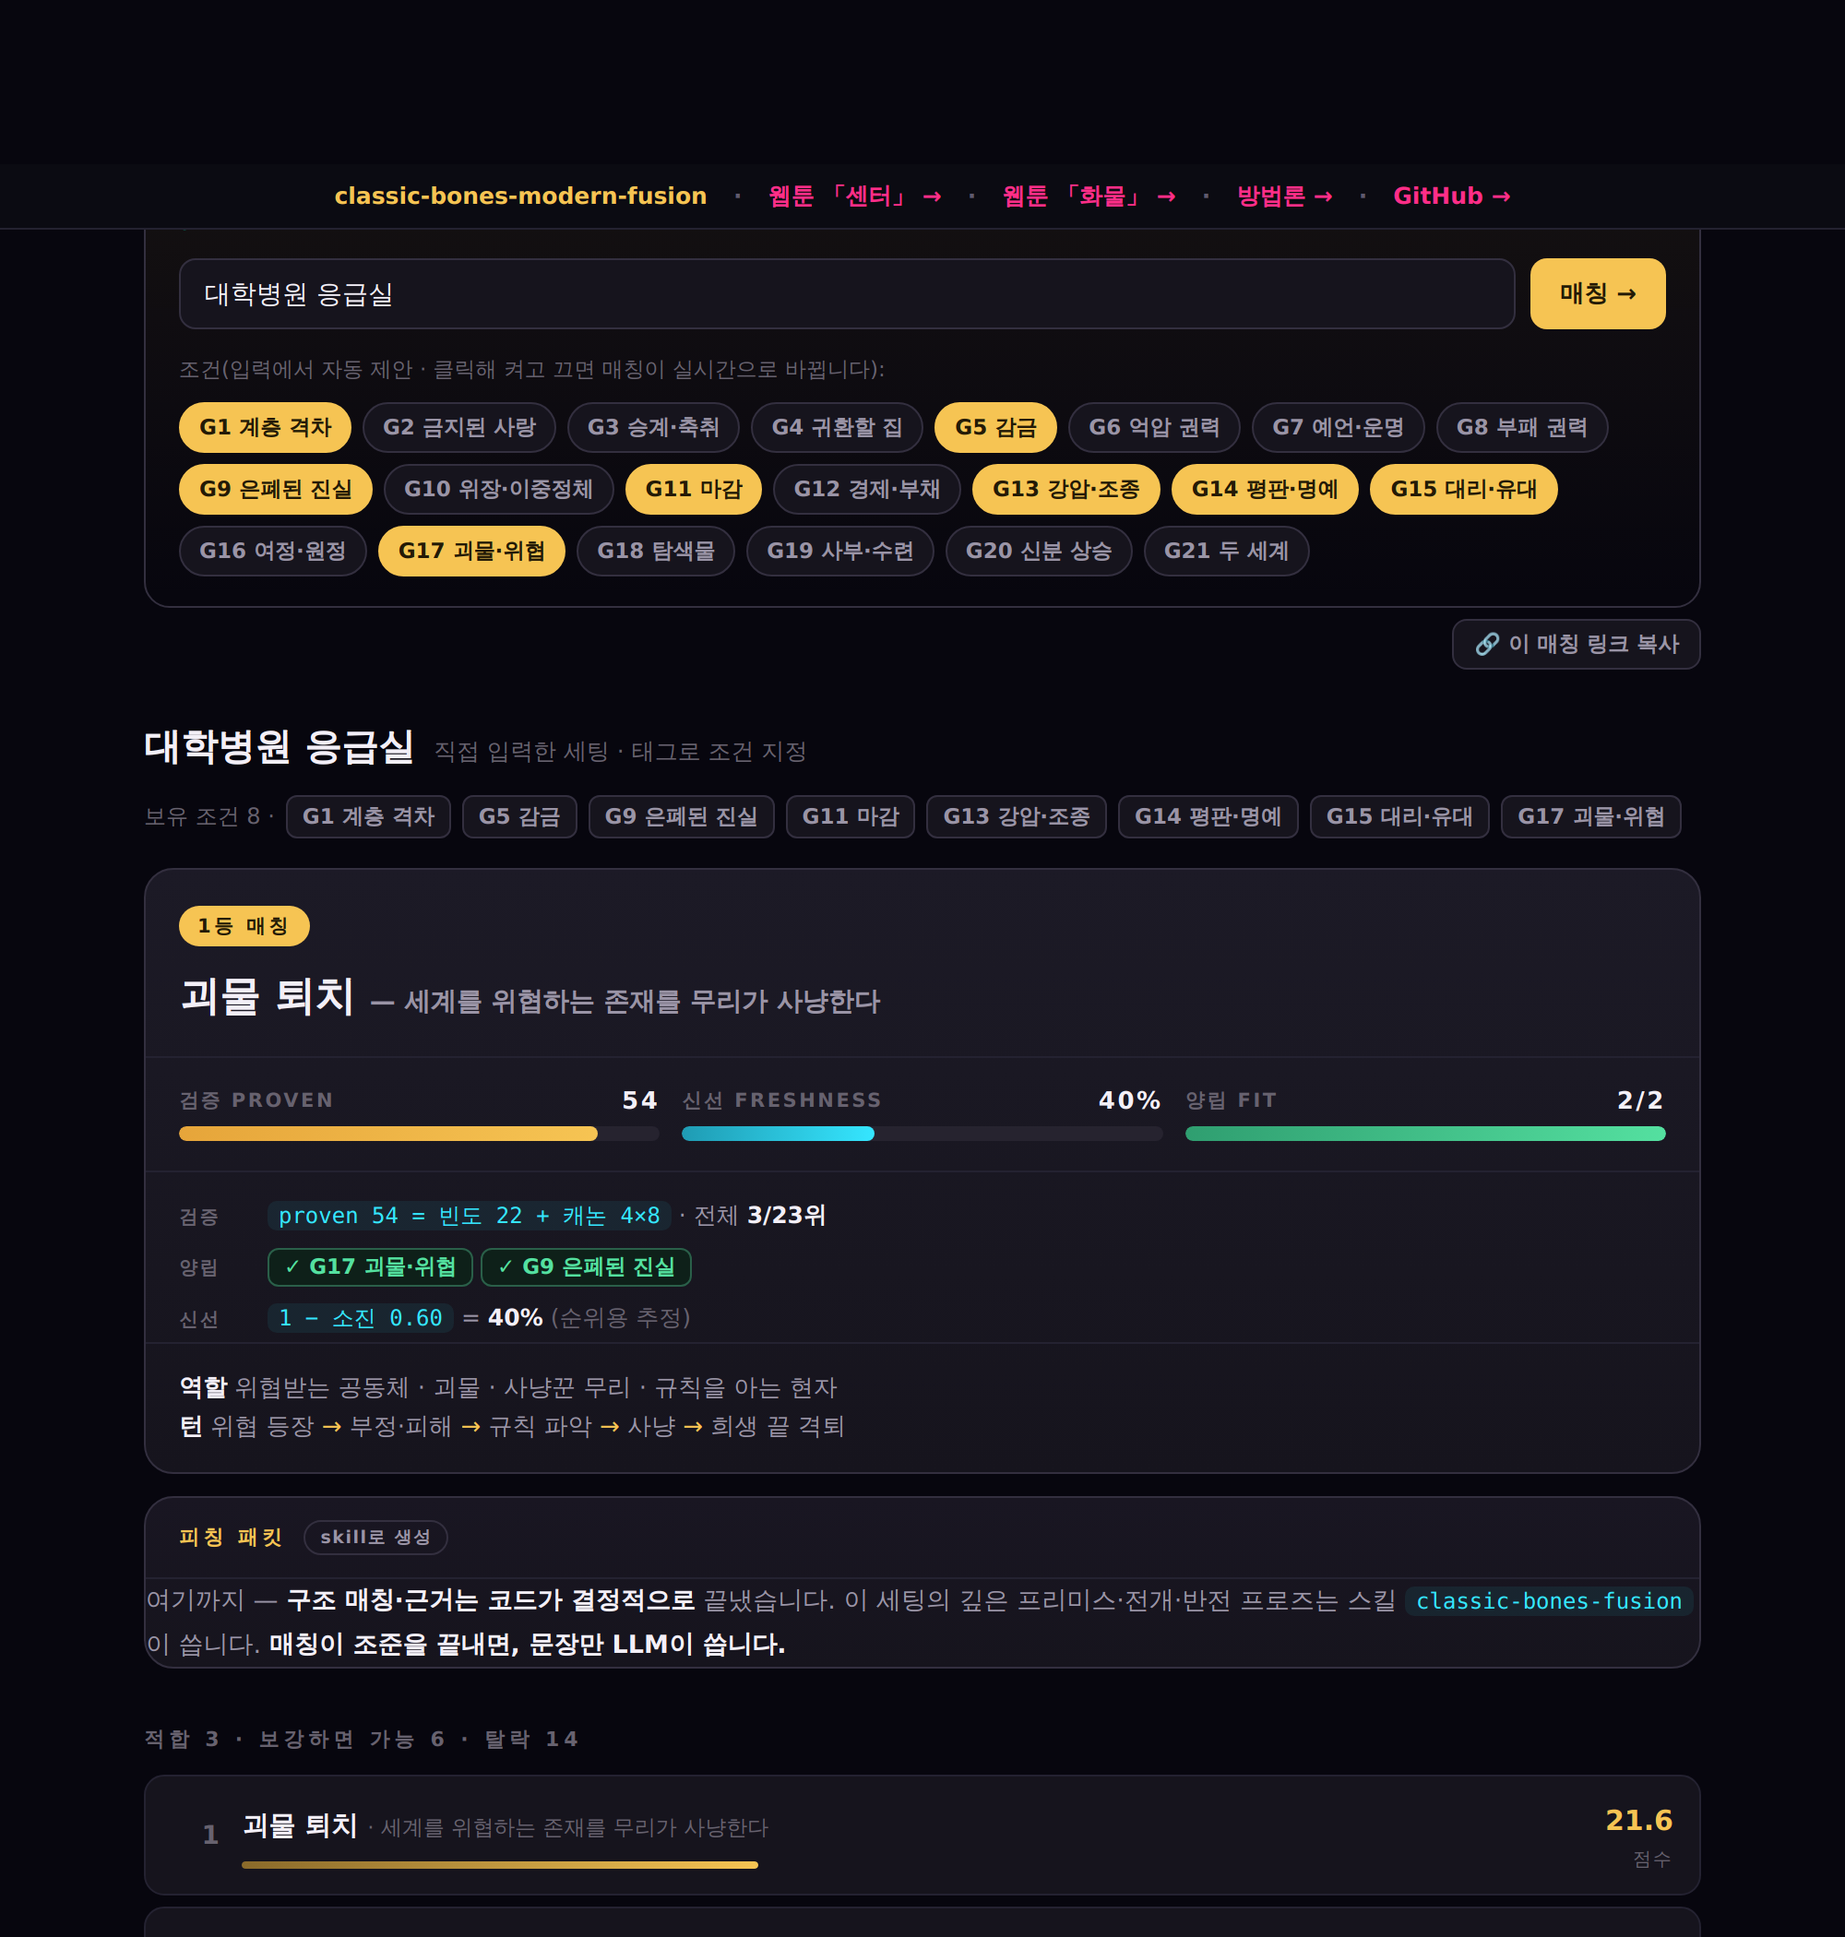
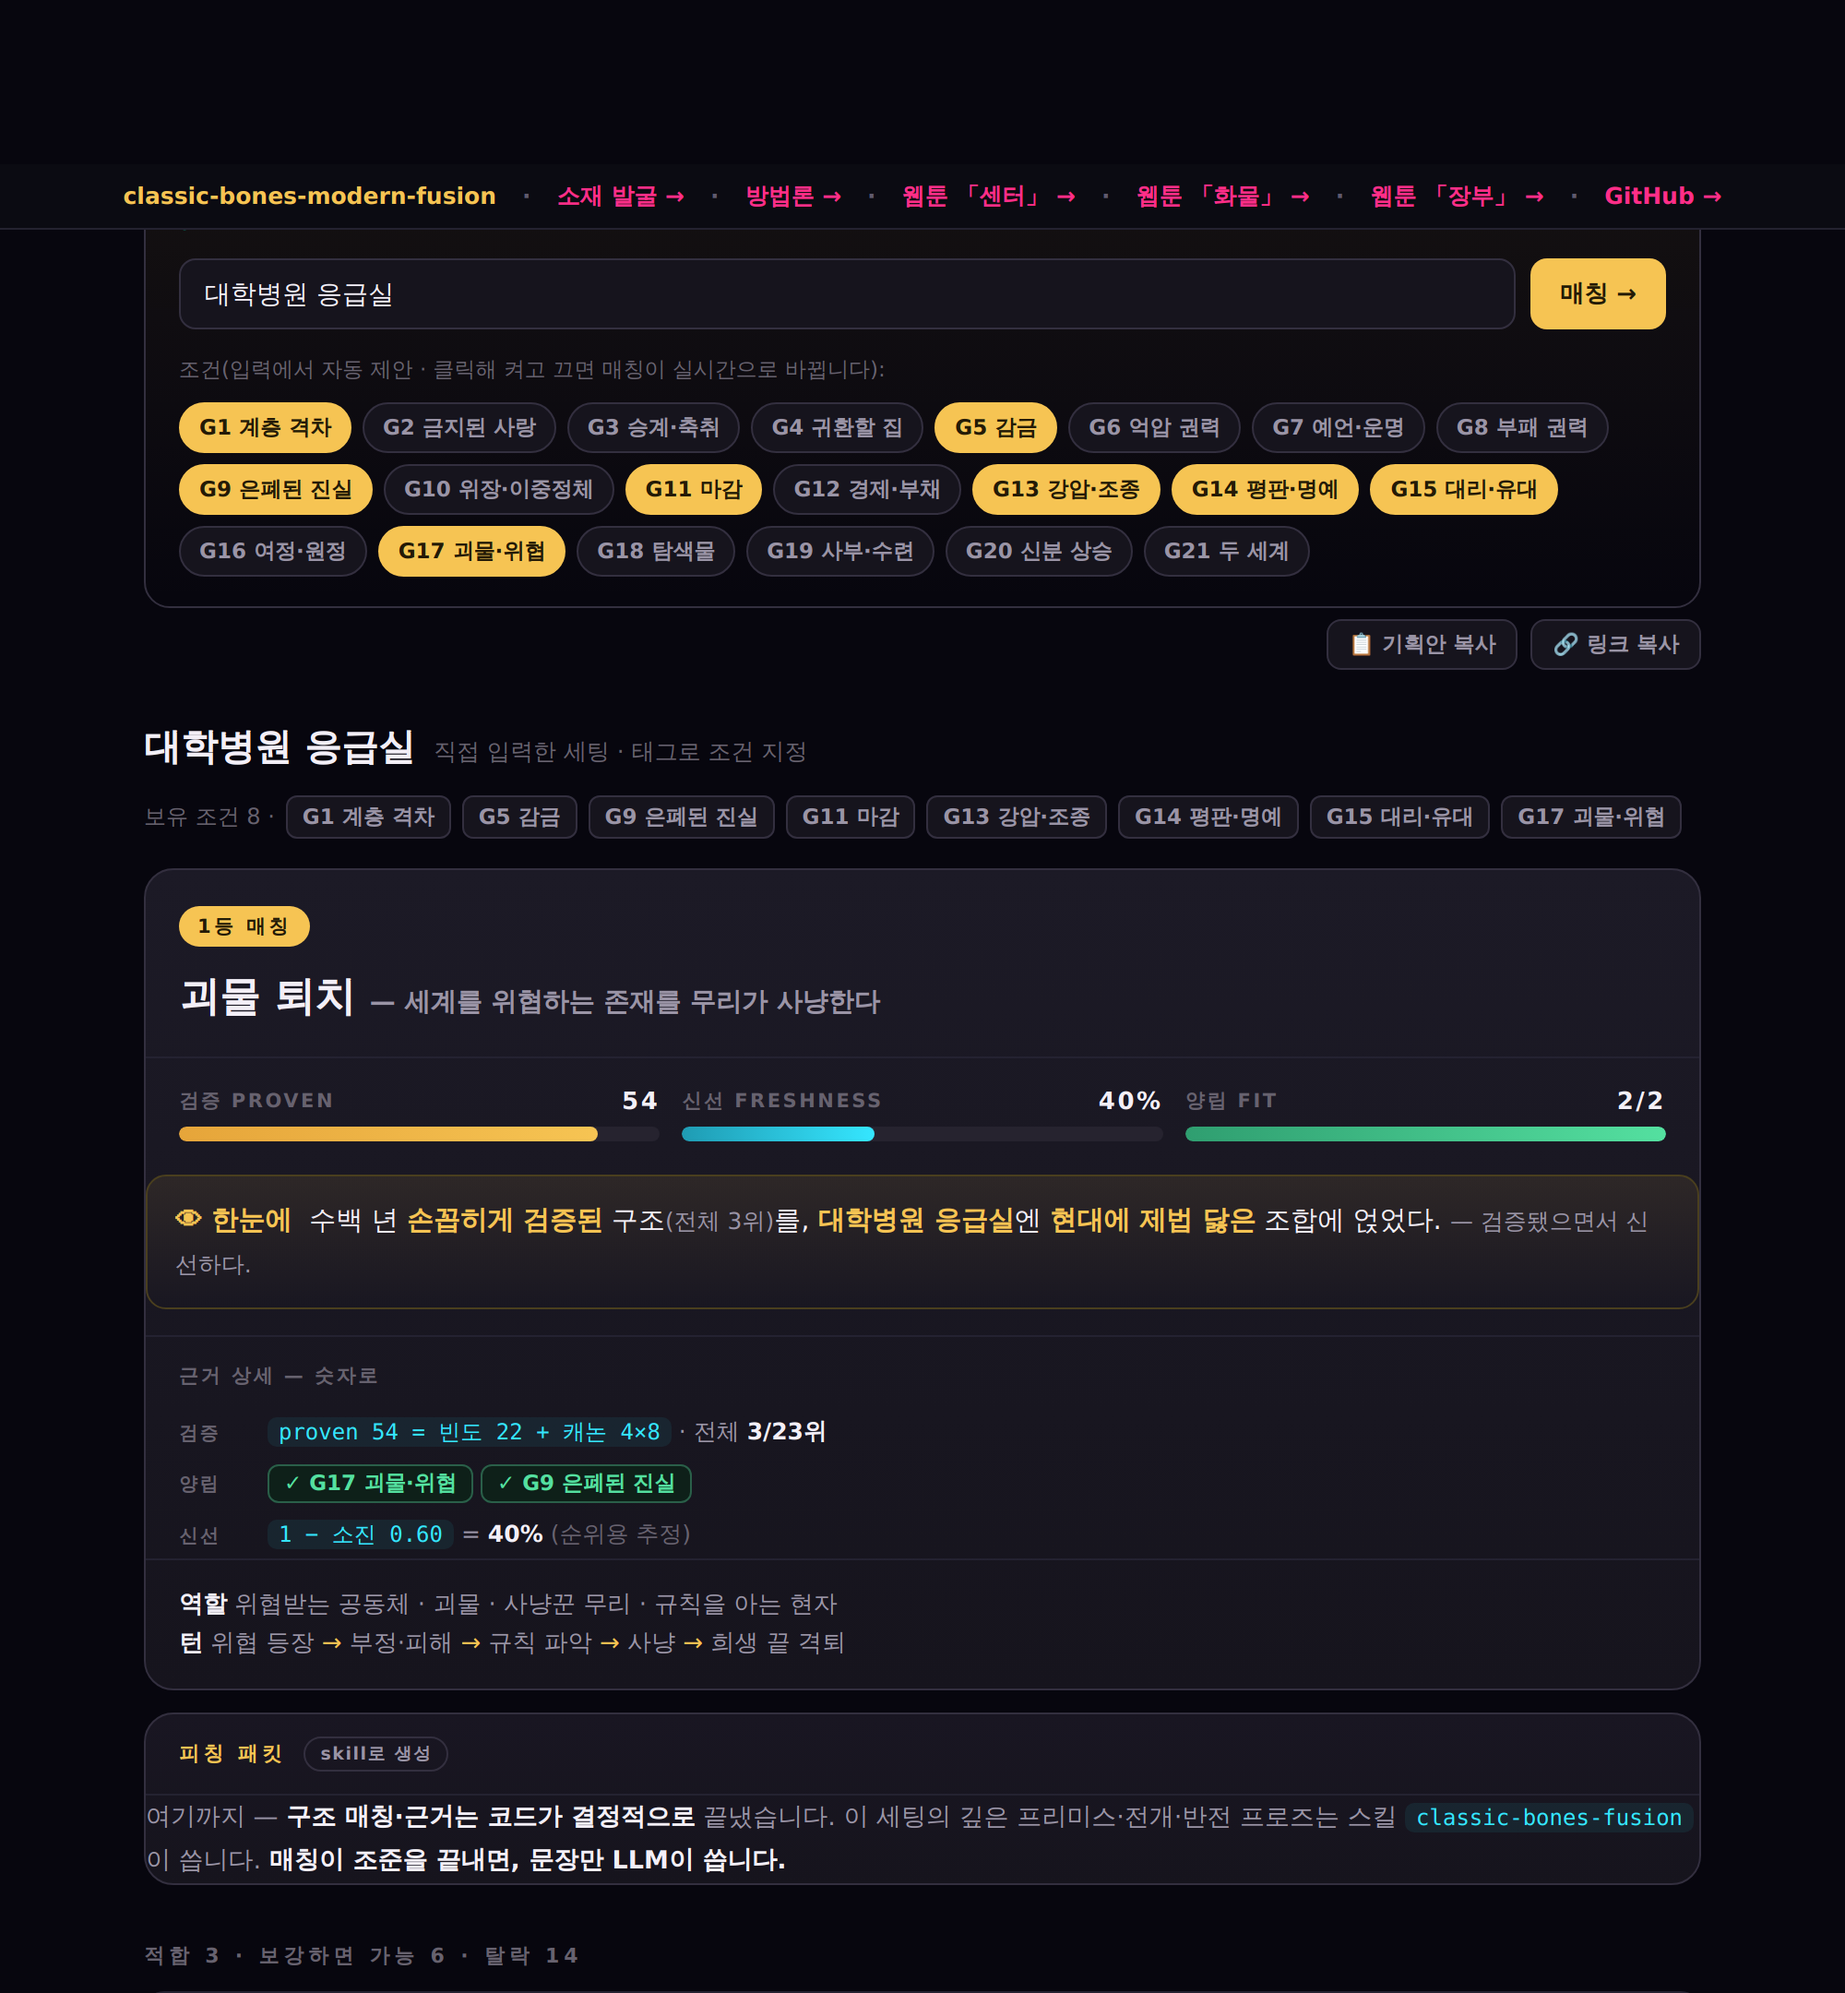
README: refresh screenshots to current product (한눈에 summary, export, reframed lead) + add the 소재 발굴 engine shot
The 5 README shots predated the reframe, the 👁 한눈에 takeaway, the 📋 export, and the discover engine — the portfolio front door showed an older version. Re-rendered explorer/evidence/byos at current state and added a 소재 발굴 (discover) screenshot as its own section.

diff --git a/README.md b/README.md
@@ -49,7 +49,13 @@
 
 **아무 현대 세팅**이나 입력하면(“대학병원 응급실”), 도메인에서 **조건을 자동 제안**하고(클릭해 켜고 끄면 실시간 재매칭), 맞는 고전 뼈대를 **코드가 결정적으로** 찾아준다. 차별점(매칭·근거)은 LLM이 필요 없어 **정적 웹에서 API·키 없이** 돈다. 프리미스 프로즈만 스킬 몫. — “GPT랑 뭐가 다른가”를 *체험*으로 증명하는 지점.
 
-### ⑤ 쇼케이스 — 웹툰
+### ⑤ 소재 발굴 — 안 써본 신선 조합
+
+![소재 발굴 — 말 되는 조합 전체를 신선순으로](assets/screens/discover.png)
+
+전체 782 조합 중 **말 되는 69개**를 신선순으로 세운 발굴 엔진. 각 줄이 기획 씨앗 — 세팅×뼈대·검증·신선·census·구조(턴)에 “탐색기에서 열기” 링크. 세팅당 1등만 보면 묻히는 조합(아이돌×금지된 사랑 등)까지 드러난다.
+
+### ⑥ 쇼케이스 — 웹툰
 
 ![웹툰 — 오디세이×우주선, ITER.47 반전](assets/screens/webtoon.png)
 
